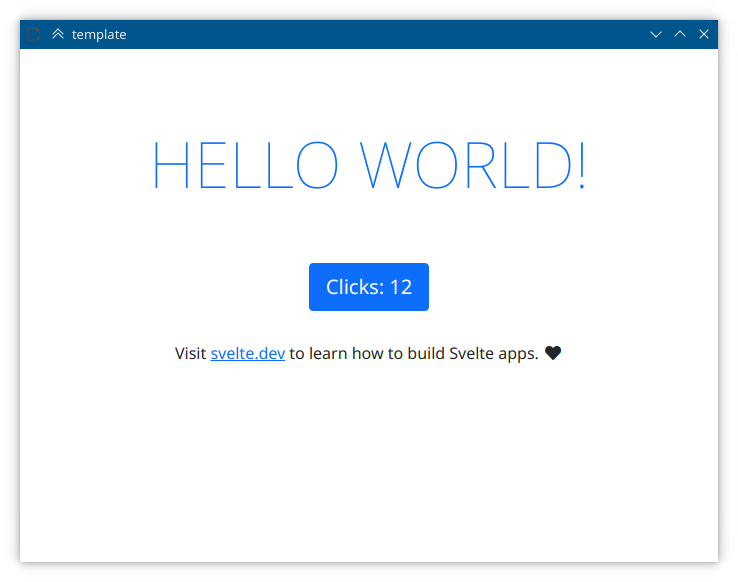
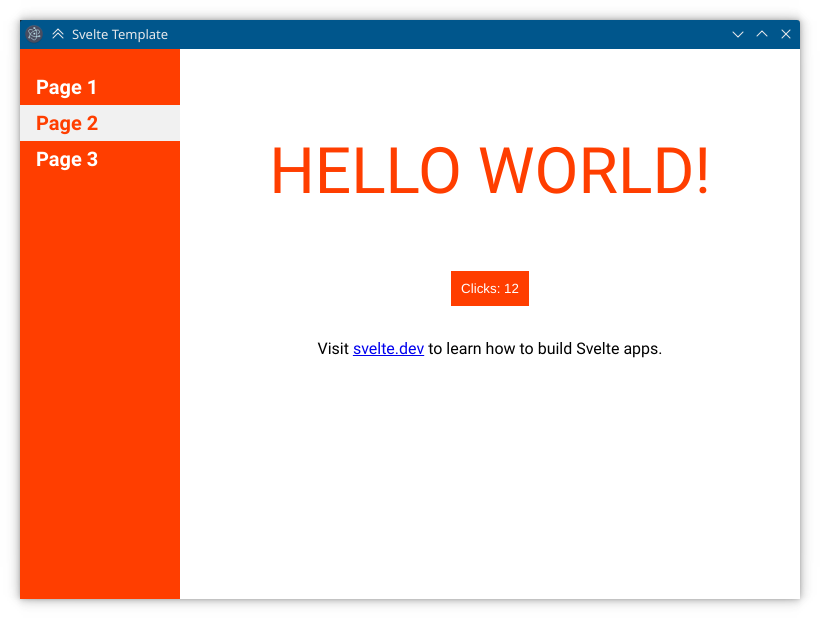
Removed Bootstrap 5 and FontAwesome by default

Changed region(s): [[0.0, 0.0309, 0.9973, 0.9897], [0.3117, 0.2165, 0.8726, 0.3402]]

diff --git a/src/app.scss b/src/app.scss
@@ -1,7 +1,56 @@
+$primary: #ff3e00;
+
 :root {
-  font-family: -apple-system, BlinkMacSystemFont, "Segoe UI", Roboto, Oxygen, Ubuntu, Cantarell,
-    "Open Sans", "Helvetica Neue", sans-serif;
+  font-family: -apple-system, BlinkMacSystemFont, "Segoe UI", Roboto, Oxygen, Ubuntu, Cantarell, "Open Sans", "Helvetica Neue", sans-serif;
 }
 
-@import "bootstrap/scss/bootstrap";
-@import "@fortawesome/fontawesome-free/css/all.min.css";
+.text-primary {
+  color: $primary;
+}
+
+.button {
+  padding: 10px 10px;
+  display: inline-block;
+  background-color: $primary;
+  color: white;
+  text-decoration: none;
+  border: none;
+}
+
+ /* The sidebar menu */
+.sidenav {
+  height: 100%;    /* Full-height: remove this if you want "auto" height */
+  width: 160px;    /* Set the width of the sidebar */
+  position: fixed; /* Fixed Sidebar (stay in place on scroll) */
+  z-index: 1;      /* Stay on top */
+  top: 0;          /* Stay at the top */
+  left: 0;
+  background-color: $primary;
+  overflow-x: hidden; /* Disable horizontal scroll */
+  padding-top: 20px;
+}
+
+.sidenav a {
+  padding: 6px 8px 6px 16px;
+  text-decoration: none;
+  font-size: 20px;
+  font-weight: bold;
+  color: white;
+  display: block;
+}
+
+.sidenav a:hover {
+  background-color: #f1f1f1;
+  color: $primary;
+}
+
+.main {
+  margin-left: 160px; /* Same as the width of the sidebar */
+  padding: 0px 10px;
+}
+
+/* On smaller screens, where height is less than 450px, change the style of the sidebar (less padding and a smaller font size) */
+@media screen and (max-height: 450px) {
+  .sidenav {padding-top: 15px;}
+  .sidenav a {font-size: 18px;}
+}

diff --git a/src/routes/page2.svelte b/src/routes/page2.svelte
@@ -1,0 +1,13 @@
+<svelte:head>
+  <title>Page 1</title>
+</svelte:head>
+
+<h1 class="pagetitle">Page 2</h1>
+<p>This is the page 2</p>
+
+<div style="display: flex; justify-content: center;">
+  <a class="button" style="margin-left: 2px;" href="/">Home</a>
+  <a class="button" style="margin-left: 2px;" href="/page1">Page 1</a>
+  <a class="button" style="margin-left: 2px;" href="/page3">Page 3</a>
+</div>
+

diff --git a/src/routes/page1.svelte b/src/routes/page1.svelte
@@ -1,0 +1,13 @@
+<svelte:head>
+  <title>Page 1</title>
+</svelte:head>
+
+<h1 class="pagetitle">Page 1</h1>
+<p>This is the page 1</p>
+
+<div style="display: flex; justify-content: center;">
+  <a class="button" href="/">Home</a>
+  <a class="button" style="margin-left: 2px;" href="/page2">Page 2</a>
+  <a class="button" style="margin-left: 2px;" href="/page3">Page 3</a>
+</div>
+

diff --git a/src/routes/page3.svelte b/src/routes/page3.svelte
@@ -1,0 +1,13 @@
+<svelte:head>
+  <title>Page 1</title>
+</svelte:head>
+
+<h1 class="pagetitle">Page 3</h1>
+<p>This is the page 3</p>
+
+<div style="display: flex; justify-content: center;">
+  <a class="button" href="/">Home</a>
+  <a class="button" style="margin-left: 2px;" href="/page1">Page 1</a>
+  <a class="button" style="margin-left: 2px;" href="/page2">Page 2</a>
+</div>
+

diff --git a/src/lib/SideBar.svelte b/src/lib/SideBar.svelte
@@ -1,0 +1,11 @@
+<!-- Based on: https://www.w3schools.com/howto/howto_css_fixed_sidebar.asp -->
+
+<script>
+  import "../app.scss";
+</script>
+
+<div class="sidenav">
+  <a href="/page1">Page 1</a>
+  <a href="/page2">Page 2</a>
+  <a href="/page3">Page 3</a>
+</div>

diff --git a/src/routes/index.svelte b/src/routes/index.svelte
@@ -2,6 +2,10 @@
   import Counter from "$lib/Counter.svelte";
 </script>
 
+<svelte:head>
+  <title>Svelte Template</title>
+</svelte:head>
+
 <main>
   <h1 class="text-primary">Hello world!</h1>
   <Counter />

diff --git a/src/lib/Counter.svelte b/src/lib/Counter.svelte
@@ -6,6 +6,6 @@
   };
 </script>
 
-<button class="btn btn-primary btn-lg rounded" on:click={increment}>
+<button class="button" on:click={increment}>
   Clicks: {count}
 </button>

diff --git a/src/routes/$layout.svelte b/src/routes/$layout.svelte
@@ -1,5 +1,10 @@
 <script>
   import "../app.scss";
+  import SideBar from "$lib/SideBar.svelte";
 </script>
 
-<slot />
+<SideBar />
+
+<div class="main">
+  <slot />
+</div>

diff --git a/README.md b/README.md
@@ -1,5 +1,36 @@
 # Electron & SvelteKit
 
-A preconfigured project template for Electron and SvelteKit.
+A minimal project template for Electron and SvelteKit.<br>
+Currently the template is configured with ![adapter-static](https://www.npmjs.com/package/@sveltejs/adapter-static)
 
 ![Screenshot](https://github.com/Dax89/electron-sveltekit/blob/master/screenshot.png)
+
+## Installation
+
+```
+npx degit Dax89/electron-sveltekit
+```
+
+## Commands
+- `npm run dev`: Runs SvelteKit in dev mode
+- `npm run start`: Runs SvelteKit in production mode
+- `npm run electron`: Runs SvelteKit with electron in dev mode
+- `npm run build`: Runs SvelteKit compiler
+- `npm run dev:package`: Creates an Electron package (you can inspect the contents)
+- `npm run package`: Create a distributable Electron package
+
+## Bootstrap 5 and FontAwesome support
+
+Download the template and install the dependencies
+
+```
+npx degit Dax89/electron-sveltekit
+npm install --save boostrap@next @fortawesome/fontawesome-free
+```
+
+Add these lines in src/app.scss 
+
+```
+@import "bootstrap/scss/bootstrap";
+@import "@fortawesome/fontawesome-free/css/all.min.css";
+```
